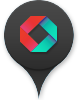
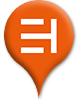
WeiterEntwicklung

diff --git a/Resources/Public/css/style.css b/Resources/Public/css/style.css
@@ -2825,7 +2825,7 @@ html #boxed  {width:100%}
 	a#logo {
 	width:37px;
 	height:36px;
-	background:url(../img/logo_mobile.png) no-repeat 0 0;
+	background:url(../img/icon-wmdb-entwicklunghilfe_mobile.png) no-repeat 0 0;
 }
 #subscribe {
 	background:none;
@@ -2938,6 +2938,7 @@ footer h3 {
 	padding: 20px;
 	word-break: normal;
 	white-space: normal;
+	max-width: 80% !important;
 }
 
 .WmdbSlideFrame .WmdbSlideHeadline {
@@ -2949,6 +2950,7 @@ footer h3 {
 .WmdbSlideFrame .WmdbSlideDescription {
 	font-size: 14px;
 	margin: 20px;
+	max-width: calc(100% - 40px);
 	width: 1000px;
 }
 
@@ -3002,4 +3004,52 @@ div.csc-mailform fieldset.WmdbContactForm > ol > li > label > em {
 	box-shadow: inset 0 1px 1px rgba(0,0,0,.075);
 	-webkit-transition: border-color ease-in-out .15s,box-shadow ease-in-out .15s;
 	transition: border-color ease-in-out .15s,box-shadow ease-in-out .15s;
+}
+
+
+@media (max-width: 1280px) {
+	.WmdbSlideFrame .WmdbSlideHeadline {
+		font-size: 36px;
+	}
+}
+
+@media (max-width: 1024px) {
+	.WmdbSlideFrame {
+		top: 50px !important;
+		padding: 10px;
+	}
+
+	.WmdbSlideFrame .WmdbSlideHeadline {
+		font-size: 24px;
+		margin: 30px 20px 20px 20px;
+	}
+	.WmdbSlideFrame .WmdbSlideDescription {
+		font-size: 14px;
+		margin: 20px;
+		max-width: calc(100% - 40px);
+		line-height: 18px;
+	}
+}
+
+@media (max-width: 768px) {
+	.WmdbSlideFrame {
+		padding: 10px;
+	}
+
+	.WmdbSlideFrame .WmdbSlideHeadline {
+		font-size: 14px;
+		margin: 20px 10px 10px 10px;
+	}
+	.WmdbSlideFrame .WmdbSlideDescription {
+		font-size: 12px;
+		margin: 10px;
+		max-width: calc(100% - 20px);
+		line-height: 14px;
+	}
+}
+
+@media (max-width: 480px) {
+	.WmdbSlideFrame {
+		top: 20px !important;
+	}
 }
